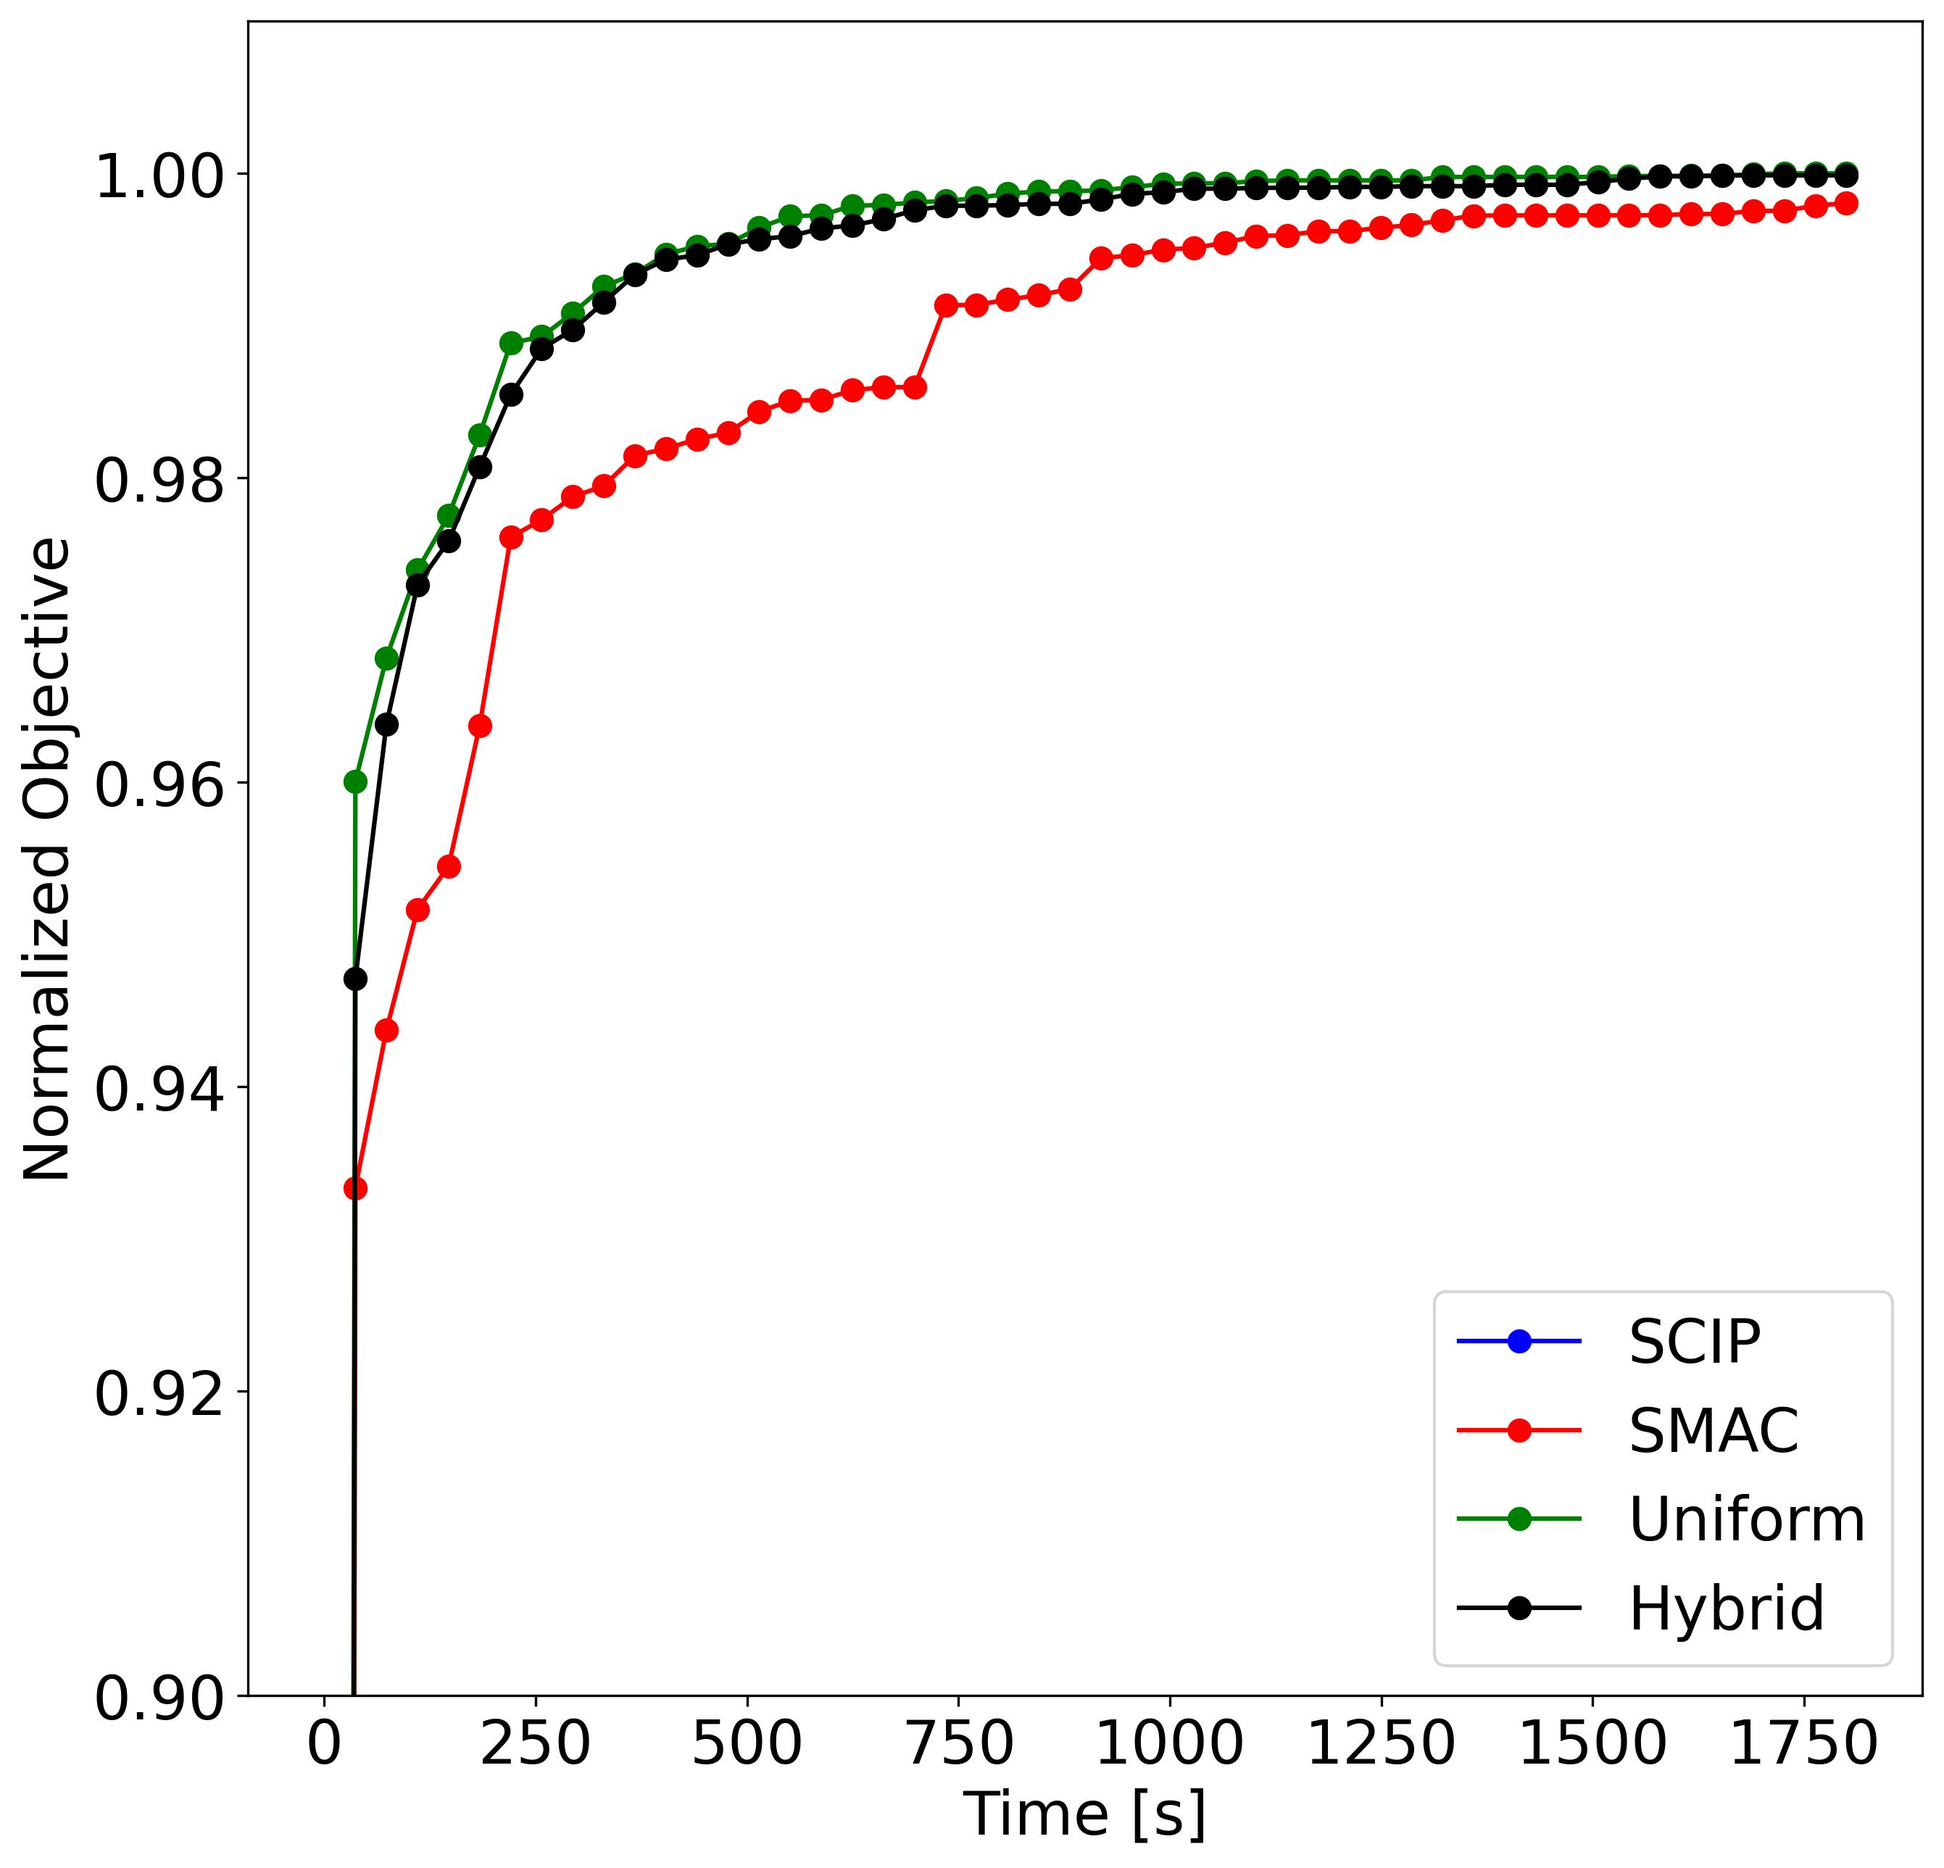
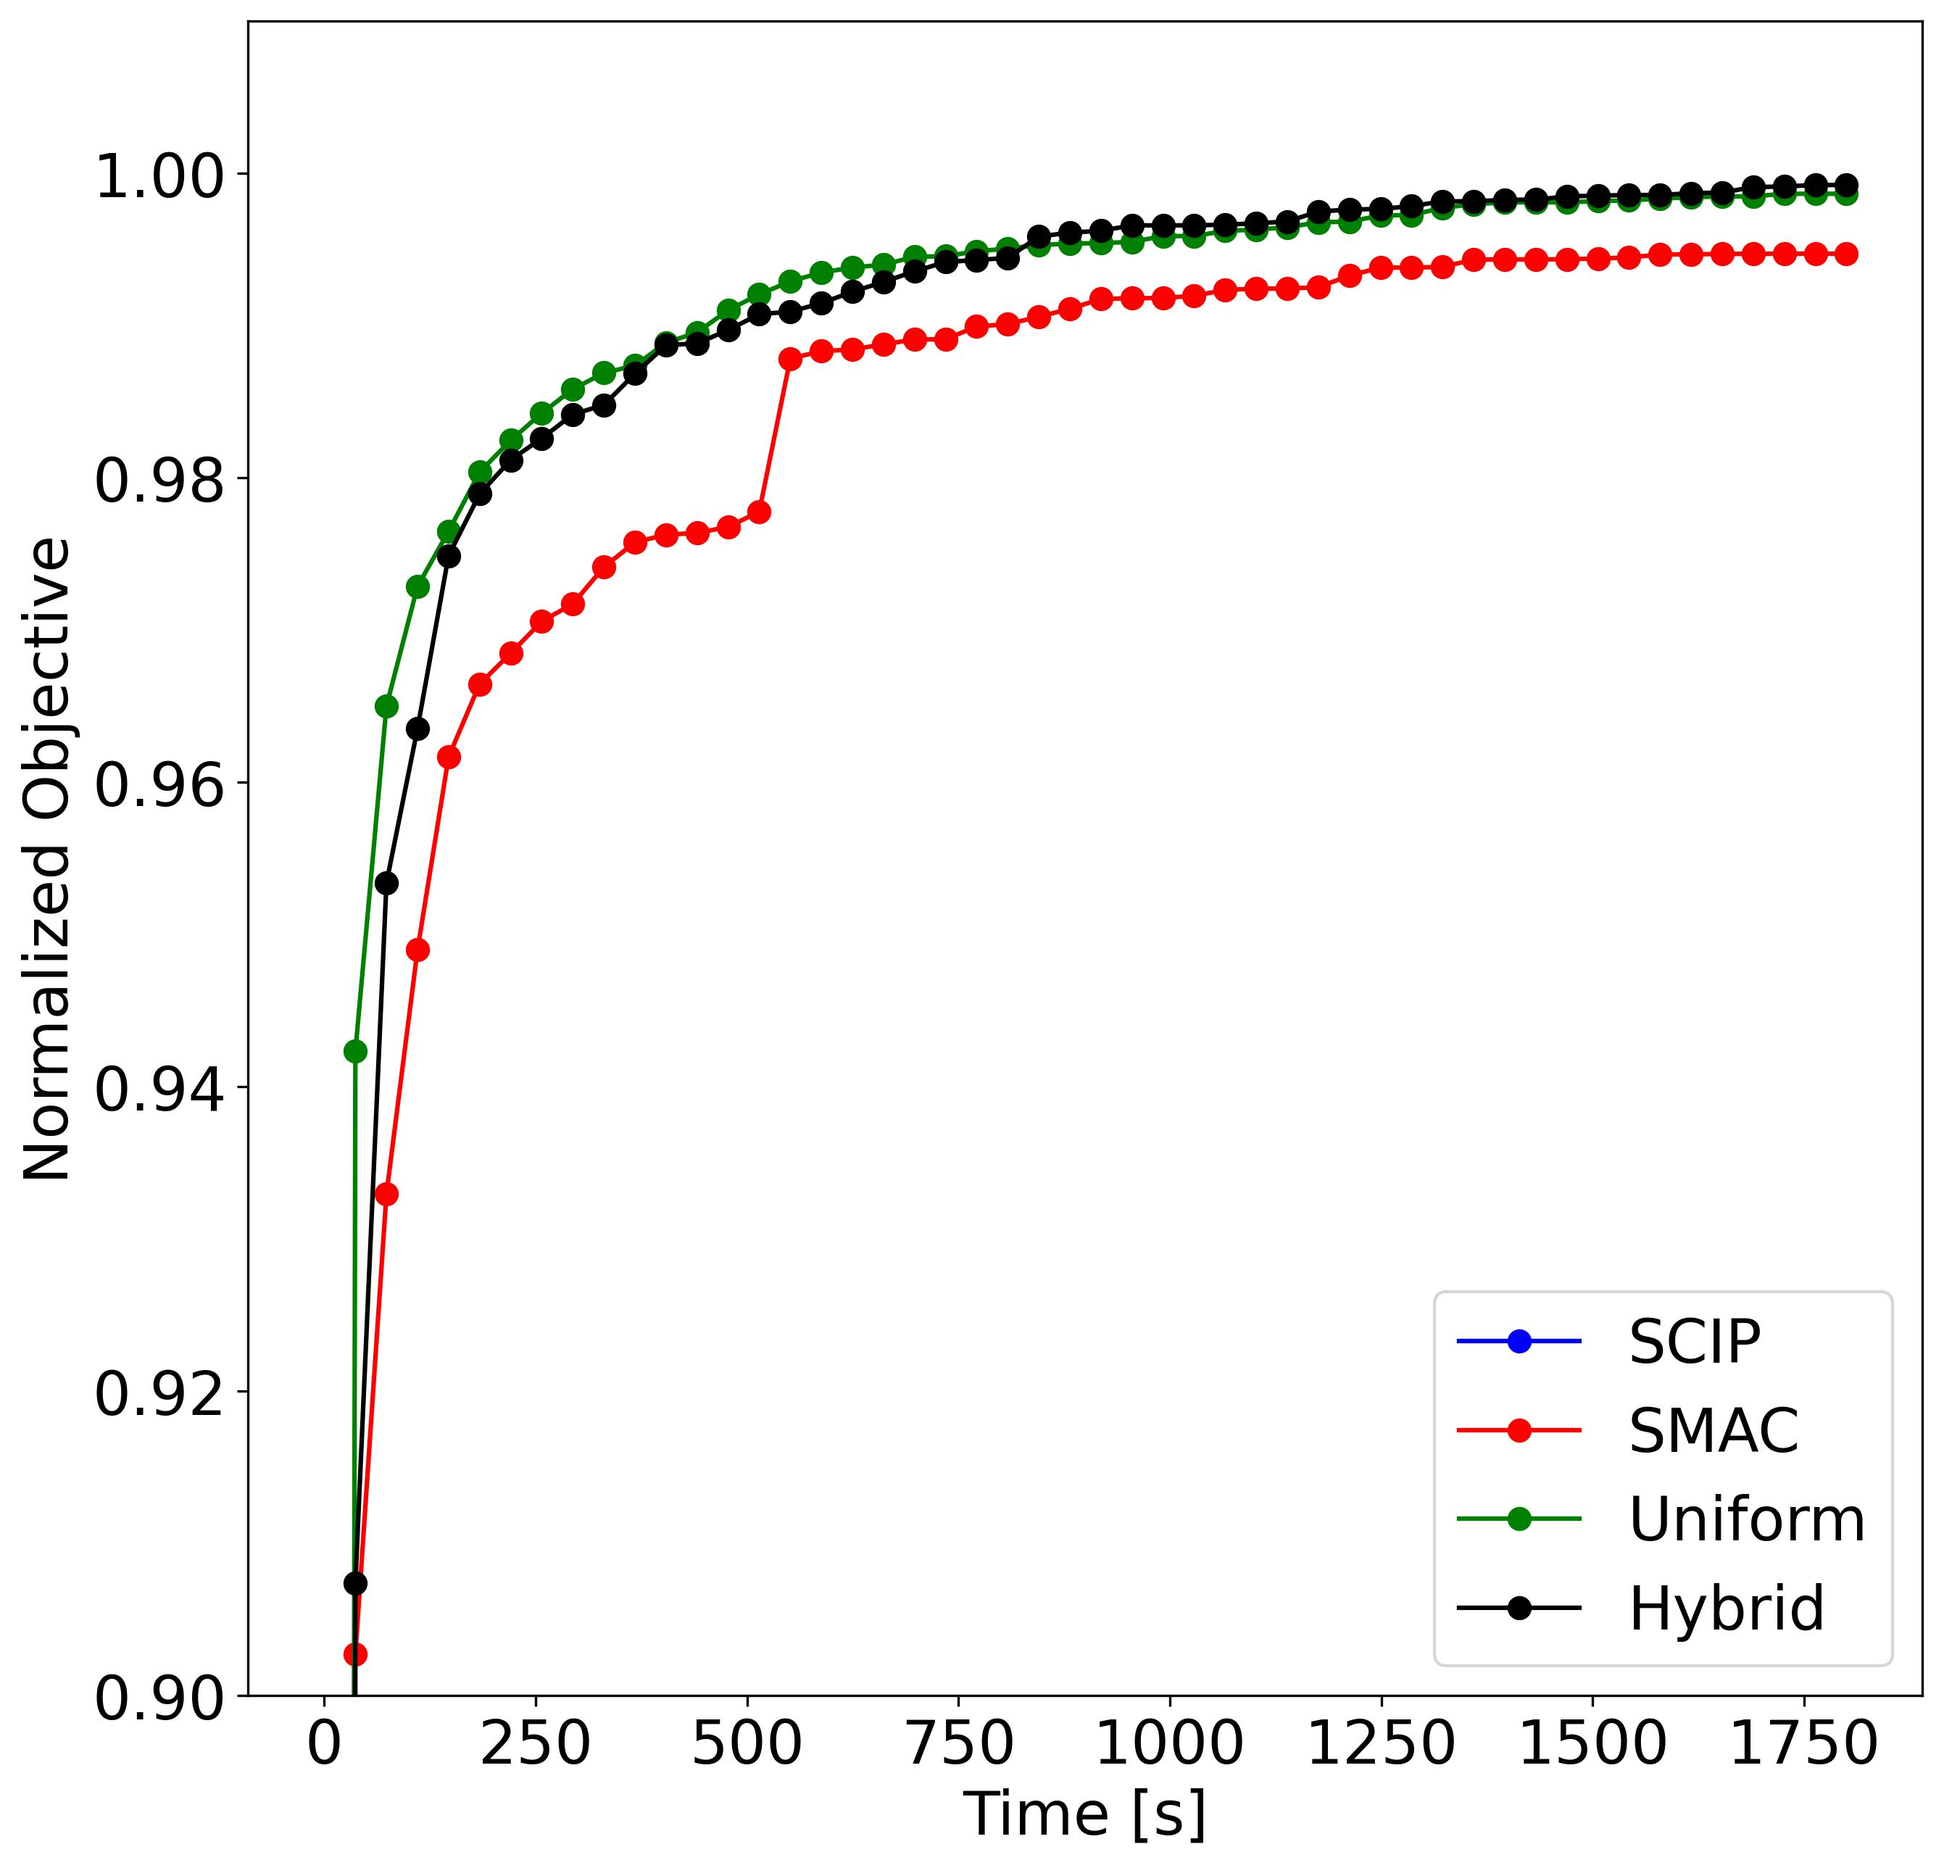
Now saves total inner optimization time instead of average

Changed region(s): [[0.1547, 0.0621, 0.9594, 0.9003]]

diff --git a/run_parallel.py b/run_parallel.py
@@ -33,7 +33,7 @@ def run_parallel() -> None:
     solver = get_solver(num_generators, solver_id)
 
     solutions_path = Path(".solutions.csv")
-    columns = ["instance", "generators", "cont_params", "cost", "penalty", "job_ind", "total_jobs", "optimized_bitstrings", "avg_inner", "max_inner", "error",
+    columns = ["instance", "generators", "cont_params", "cost", "penalty", "job_ind", "total_jobs", "optimized_bitstrings", "total_inner", "max_inner", "error",
                "history"]
     if solutions_path.exists():
         existing_df = pd.read_csv(solutions_path, dtype={"instance": "Int64", "generators": "string"}).reindex(columns=columns)
@@ -95,7 +95,7 @@ def run_parallel() -> None:
                         "penalty": last_result.penalty,
                         "job_ind": history[-1].job_ind,
                         "total_jobs": extra.get("total_jobs"),
-                        "avg_inner": extra.get("avg_inner"),
+                        "total_inner": extra.get("total_inner"),
                         "max_inner": extra.get("max_inner"),
                         "optimized_bitstrings": extra.get("optimized_bitstrings"),
                         "history": converter.dumps(history)}
@@ -109,12 +109,13 @@ def run_parallel() -> None:
     print(f"Run complete: {timeout_count} timeout(s), {error_count} other failure(s).")
     total_jobs_values = pd.to_numeric(output_df["total_jobs"], errors="coerce")
     optimized_bitstring_values = pd.to_numeric(output_df["optimized_bitstrings"], errors="coerce")
-    avg_inner_values = pd.to_numeric(output_df["avg_inner"], errors="coerce")
+    total_inner_values = pd.to_numeric(output_df["total_inner"], errors="coerce")
     max_inner_values = pd.to_numeric(output_df["max_inner"], errors="coerce")
     infeasible_count = (pd.to_numeric(output_df["penalty"], errors="coerce") > solver.feasibility_tolerance).sum()
     print(f"Total jobs: avg={total_jobs_values.mean()}, max={total_jobs_values.max()}")
     print(f"Optimized bitstrings: avg={optimized_bitstring_values.mean()}, max={optimized_bitstring_values.max()}")
-    print(f"Inner optimization time: avg={avg_inner_values.mean()}, max={max_inner_values.max()}")
+    print(f"Total inner optimization time: avg={total_inner_values.mean()}, max={total_inner_values.max()}")
+    print(f"Max inner optimization time: avg={max_inner_values.mean()}, max={max_inner_values.max()}")
     print(f"Unfeasible instances: {infeasible_count}")
 
 

diff --git a/src/ContinuousPowerOptimizer.py b/src/ContinuousPowerOptimizer.py
@@ -18,12 +18,12 @@ from .PowerFlowProblem import PowerFlowProblem
 def get_optimizer_stats(inner_optimizer: ContinuousPowerOptimizer) -> dict[str, int | float]:
     """Returns summary statistics for completed inner optimizations.
     :param inner_optimizer: Inner continuous optimizer whose cache holds one entry per optimized bitstring.
-    :return: Completed-bitstring count together with average and maximum inner optimization time.
+    :return: Completed-bitstring count together with total and maximum inner optimization time.
     """
     opt_times = [result.extra["opt_time"] for result in inner_optimizer.cache.values() if "opt_time" in result.extra]
     if len(opt_times) == 0:
-        return {"optimized_bitstrings": 0, "avg_inner": 0, "max_inner": 0}
-    return {"optimized_bitstrings": len(opt_times), "avg_inner": sum(opt_times) / len(opt_times), "max_inner": max(opt_times)}
+        return {"optimized_bitstrings": 0, "total_inner": 0, "max_inner": 0}
+    return {"optimized_bitstrings": len(opt_times), "total_inner": sum(opt_times), "max_inner": max(opt_times)}
 
 
 @dataclass

diff --git a/plots/power_grid_opt.py b/plots/power_grid_opt.py
@@ -62,7 +62,7 @@ def plot_polar_vs_rectangular():
 
 def plot_average_normalized_objective_histories():
     """Plots average normalized objective histories for the default solver comparison."""
-    plot_histories([12], np.linspace(0, 1800, 50).tolist(), ["scip", "smac", "uniform", "hybrid"])
+    plot_histories([13], np.linspace(0, 1800, 50).tolist(), ["scip", "smac", "uniform", "hybrid"])
 
 
 def plot_histories(num_generators: Sequence[int], grid_times: Sequence[float], solver_ids: Sequence[str]):
